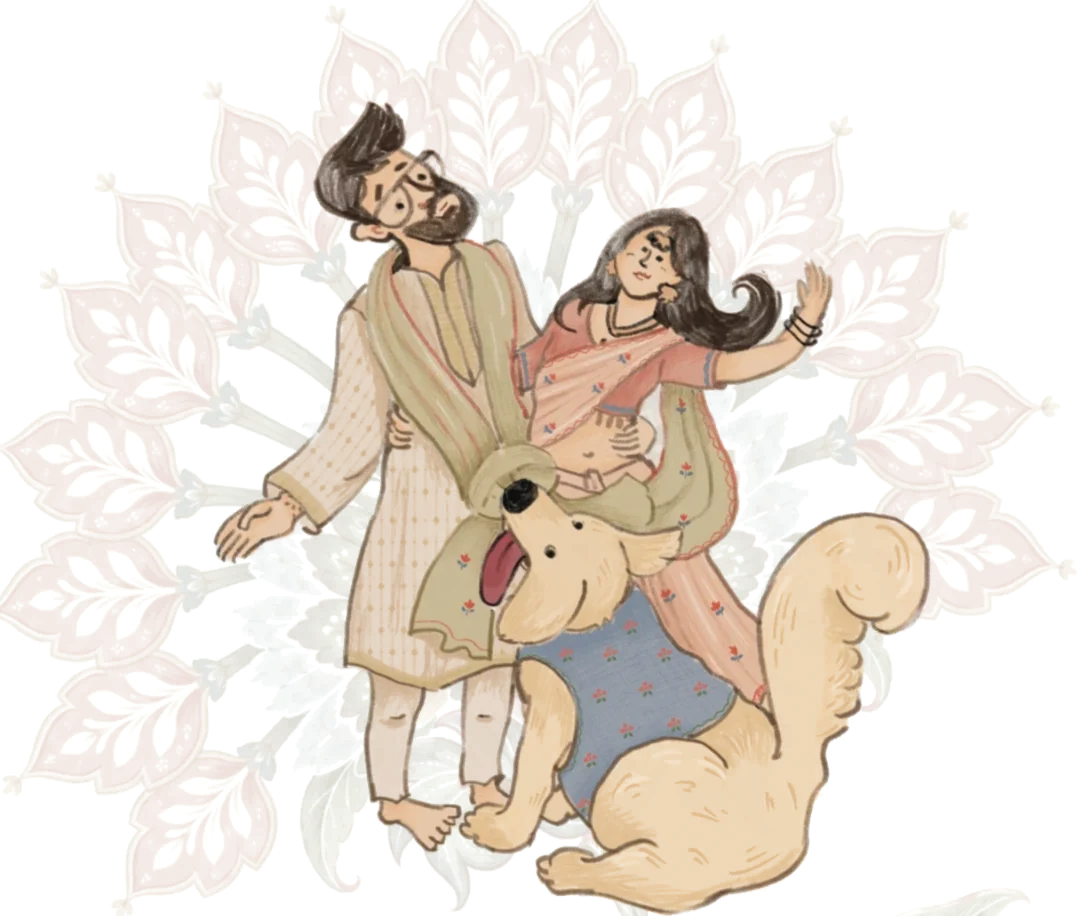
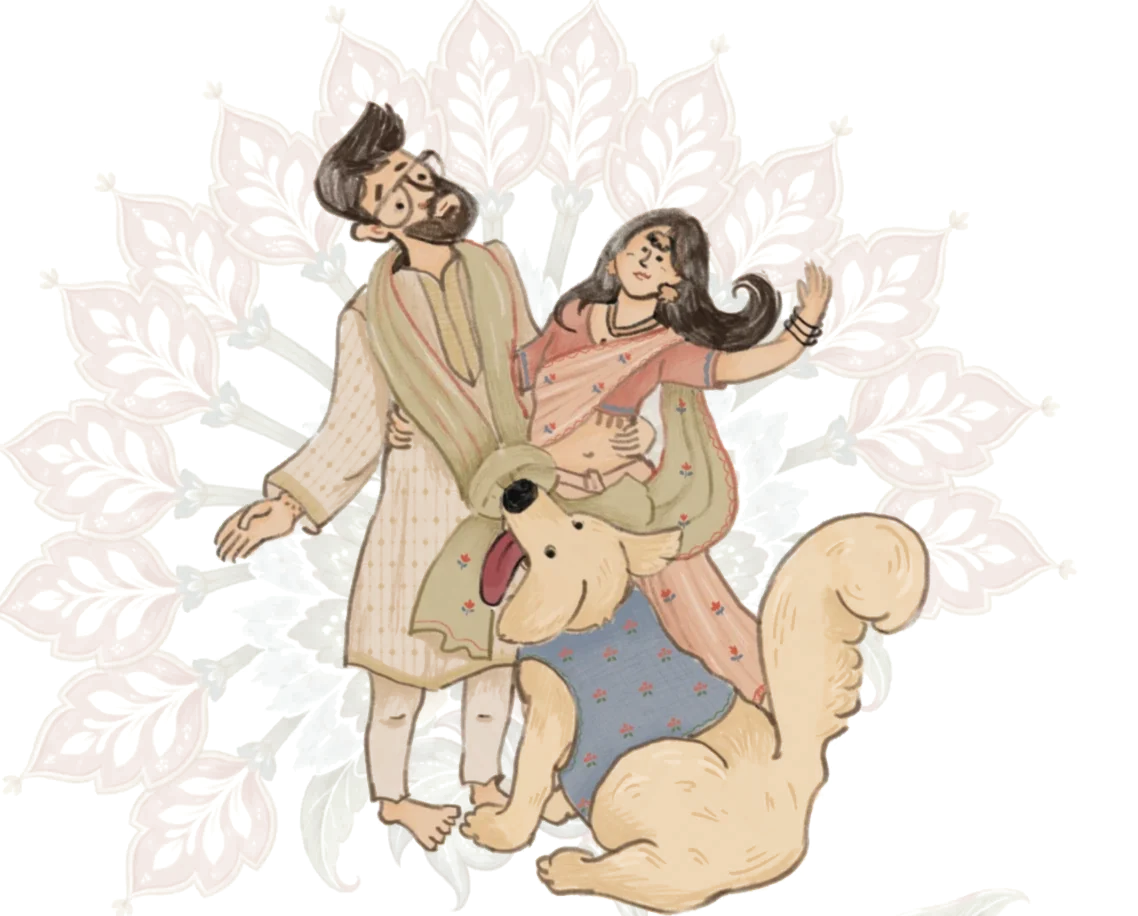
Welcome letter: drop the tap hint, carry the stem down from the drawing
On phones the stem from the original card now continues straight down
from under the dog behind the words, instead of leaving a gap. The words
are painted out of the card more tightly, so the stem has fewer smudges.

Claude-Session: https://claude.ai/code/session_01FTL2Gdzz4ohsqZhmsaCuh3

diff --git a/css/style.css b/css/style.css
@@ -412,24 +412,20 @@ a.art-link { text-decoration: none; }
 }
 .letter__art {
   position: relative; display: block; flex: none;
-  width: 100%; max-width: 560px; aspect-ratio: 1080 / 916;
-  max-height: clamp(180px, 100cqh - 340px, 54cqh);
+  width: min(100%, 560px, clamp(180px, 100cqh - 340px, 54cqh) * 1138 / 916);
+  aspect-ratio: 1138 / 916;
   padding: 0; border: 0; background: none; cursor: pointer;
   -webkit-tap-highlight-color: transparent;
 }
-.letter__art img {
-  display: block; width: 100%; height: 100%; object-fit: contain; pointer-events: none;
-  -webkit-mask-image: linear-gradient(to bottom, #000 86%, transparent);
-  mask-image: linear-gradient(to bottom, #000 86%, transparent);
+.letter__art img { display: block; width: 100%; height: 100%; object-fit: contain; pointer-events: none; }
+/* Phones: the stem carries on from under the dog, down behind the words */
+.letter__art::after {
+  content: ""; position: absolute; left: 0; top: 100%; width: 100%; aspect-ratio: 1138 / 972;
+  background: url(../assets/letter-stem.webp) center top / 100% auto no-repeat; pointer-events: none;
+  -webkit-mask-image: linear-gradient(#000 70%, transparent);
+  mask-image: linear-gradient(#000 70%, transparent);
 }
 .letter__art:focus-visible { outline-offset: 6px; border-radius: 18px; }
-.letter__hint {
-  position: absolute; right: 4%; bottom: 6%;
-  font-family: var(--serif); font-style: italic; font-size: .85rem; color: var(--rose-deep);
-  background: rgba(247, 243, 234, .85); padding: .1rem .6rem; border-radius: 999px;
-  animation: hint 2.4s 1.6s ease-in-out infinite; transition: opacity .4s;
-}
-.letter__art.is-tapped .letter__hint { opacity: 0; }
 .letter__art.is-popping img { animation: letter-pop .75s var(--ease-bounce); }
 .letter__burst {
   position: absolute; width: var(--size); height: var(--size); margin: calc(var(--size) / -2) 0 0 calc(var(--size) / -2);
@@ -442,7 +438,7 @@ a.art-link { text-decoration: none; }
   color: #b8708f; font-size: clamp(.92rem, 4.1cqw, 1.1rem); line-height: 1.42;
 }
 .letter__text::before {
-  content: ""; position: absolute; z-index: -1; left: -10%; right: -10%; top: -6%; bottom: -14%;
+  content: none; position: absolute; z-index: -1; left: -10%; right: -10%; top: -6%; bottom: -14%;
   background: url(../assets/letter-stem.webp) center top / contain no-repeat; opacity: .8;
   -webkit-mask-image: linear-gradient(transparent, #000 18%, #000 75%, transparent);
   mask-image: linear-gradient(transparent, #000 18%, #000 75%, transparent);
@@ -460,9 +456,15 @@ a.art-link { text-decoration: none; }
 
 @media (min-width: 900px) and (orientation: landscape) {
   .letter { flex-direction: row; gap: 5vw; padding: 3cqh 8vw 64px 6vw; }
-  .letter__art { flex: 0 1 auto; width: auto; height: min(84cqh, 46vw * 916 / 1080); max-height: none; max-width: 52vw; }
+  .letter__art { flex: 0 1 auto; width: min(52vw, 84cqh * 1138 / 916, 46vw); }
+  .letter__art img {
+    -webkit-mask-image: linear-gradient(to bottom, #000 86%, transparent);
+    mask-image: linear-gradient(to bottom, #000 86%, transparent);
+  }
+  /* Computers: the stem sits behind the words instead */
+  .letter__art::after { content: none; }
+  .letter__text::before { content: ""; }
   .letter__text { flex: 0 1 34rem; max-width: 34rem; font-size: clamp(1.15rem, 1.75vw, 1.6rem); }
-  .letter__hint { font-size: 1rem; }
 }
 @keyframes letter-in { 0% { transform: scale(.82); } 60% { transform: scale(1.04); } 100% { transform: scale(1); } }
 @keyframes letter-pop {
@@ -474,7 +476,6 @@ a.art-link { text-decoration: none; }
   12%, 65% { opacity: 1; }
   100% { opacity: 0; transform: translate(var(--x), var(--y)) rotate(var(--r)) scale(1); }
 }
-@keyframes hint { 50% { transform: translateY(-4px); } }
 
 /* Next-event cue */
 .scroll-cue {

diff --git a/js/app.js b/js/app.js
@@ -528,8 +528,7 @@
     sec.insertAdjacentHTML('beforeend',
       '<div class="letter">' +
         '<button class="letter__art" type="button" aria-label="Ishita and Sarvesh dancing, with their dog joining in. Tap to make them twirl.">' +
-          '<img src="assets/letter-art.webp" alt="" width="1080" height="916">' +
-          '<span class="letter__hint" aria-hidden="true">tap us</span>' +
+          '<img src="assets/letter-art.webp" alt="" width="1138" height="916">' +
         '</button>' +
         '<div class="letter__text">' +
           '<p class="letter__dear">Dear ' + esc(guest.name) + ',</p>' +
@@ -540,7 +539,6 @@
       '</div>' + nextCue(list[0]));
     var art = sec.querySelector('.letter__art');
     art.addEventListener('click', function (e) {
-      art.classList.add('is-tapped');
       art.classList.remove('is-popping');
       void art.offsetWidth; // restart the animation on every tap
       art.classList.add('is-popping');

diff --git a/tools/cut_letter.py b/tools/cut_letter.py
@@ -18,9 +18,9 @@ H, W = im.shape[:2]
 y0, y1, x0, x1 = 1060, 1830, 90, 1160
 mask = np.zeros((H, W), np.uint8)
 rh, rs = h[y0:y1, x0:x1], s[y0:y1, x0:x1]
-mask[y0:y1, x0:x1] = (rs > 48) | (((rh >= 135) | (rh <= 4)) & (rs > 33))
-mask = cv2.dilate(mask, np.ones((7, 7), np.uint8), iterations=3)
-clean = cv2.inpaint(im, mask, 9, cv2.INPAINT_TELEA).astype(np.float32)
+mask[y0:y1, x0:x1] = (rs > 40) | (((rh >= 135) | (rh <= 4)) & (rs > 28))
+mask = cv2.dilate(mask, np.ones((5, 5), np.uint8), iterations=2)
+clean = cv2.inpaint(im, mask, 5, cv2.INPAINT_TELEA).astype(np.float32)
 
 # Make the paper see-through. Faint colours keep their hue but fade out.
 paper = np.median(clean[300:1000, 60:120].reshape(-1, 3), axis=0)
@@ -50,12 +50,13 @@ rgba = np.dstack([colour, alpha * 255]).clip(0, 255).astype(np.uint8)
 
 def save(box, path):
     out = Image.fromarray(rgba, 'RGBA').crop(box)
-    out = out.crop(out.getbbox())
     out.save(path, quality=86, method=6)
     print(path, out.size)
 
+# Same width, cut at the same line, so on phones the stem carries on
+# straight down from under the dog.
 save((56, 56, W - 56, 972), 'assets/letter-art.webp')
-save((56, 995, W - 56, H - 56), 'assets/letter-stem.webp')
+save((56, 972, W - 56, H - 56), 'assets/letter-stem.webp')
 
 # The divider: the strongly coloured green pixels around it
 y0, y1, x0, x1 = 1205, 1262, 430, 830
